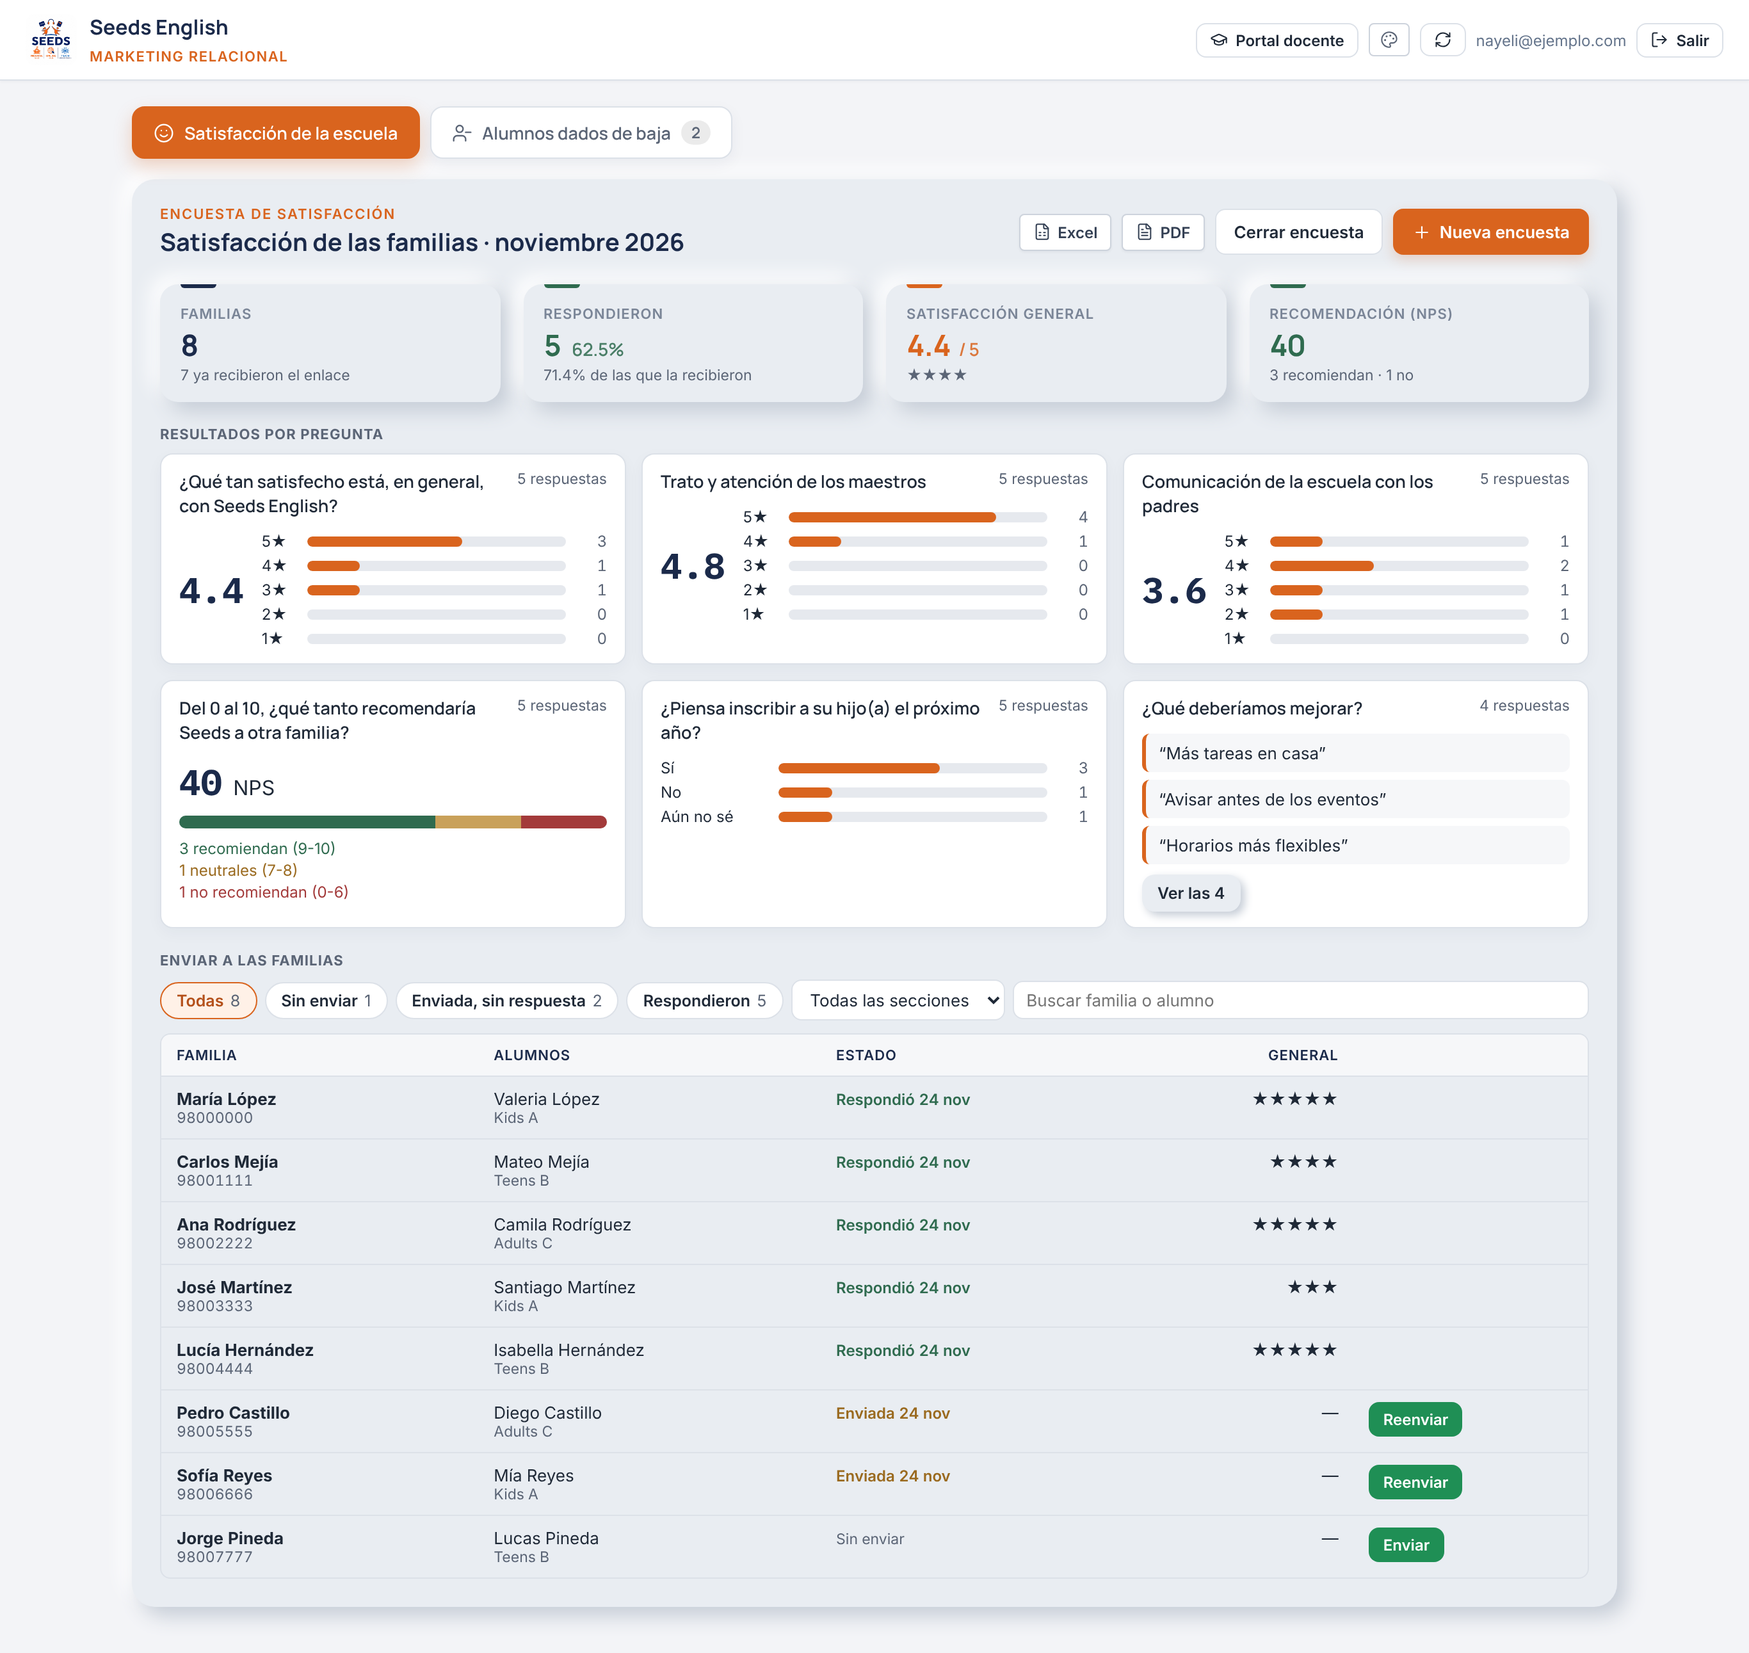
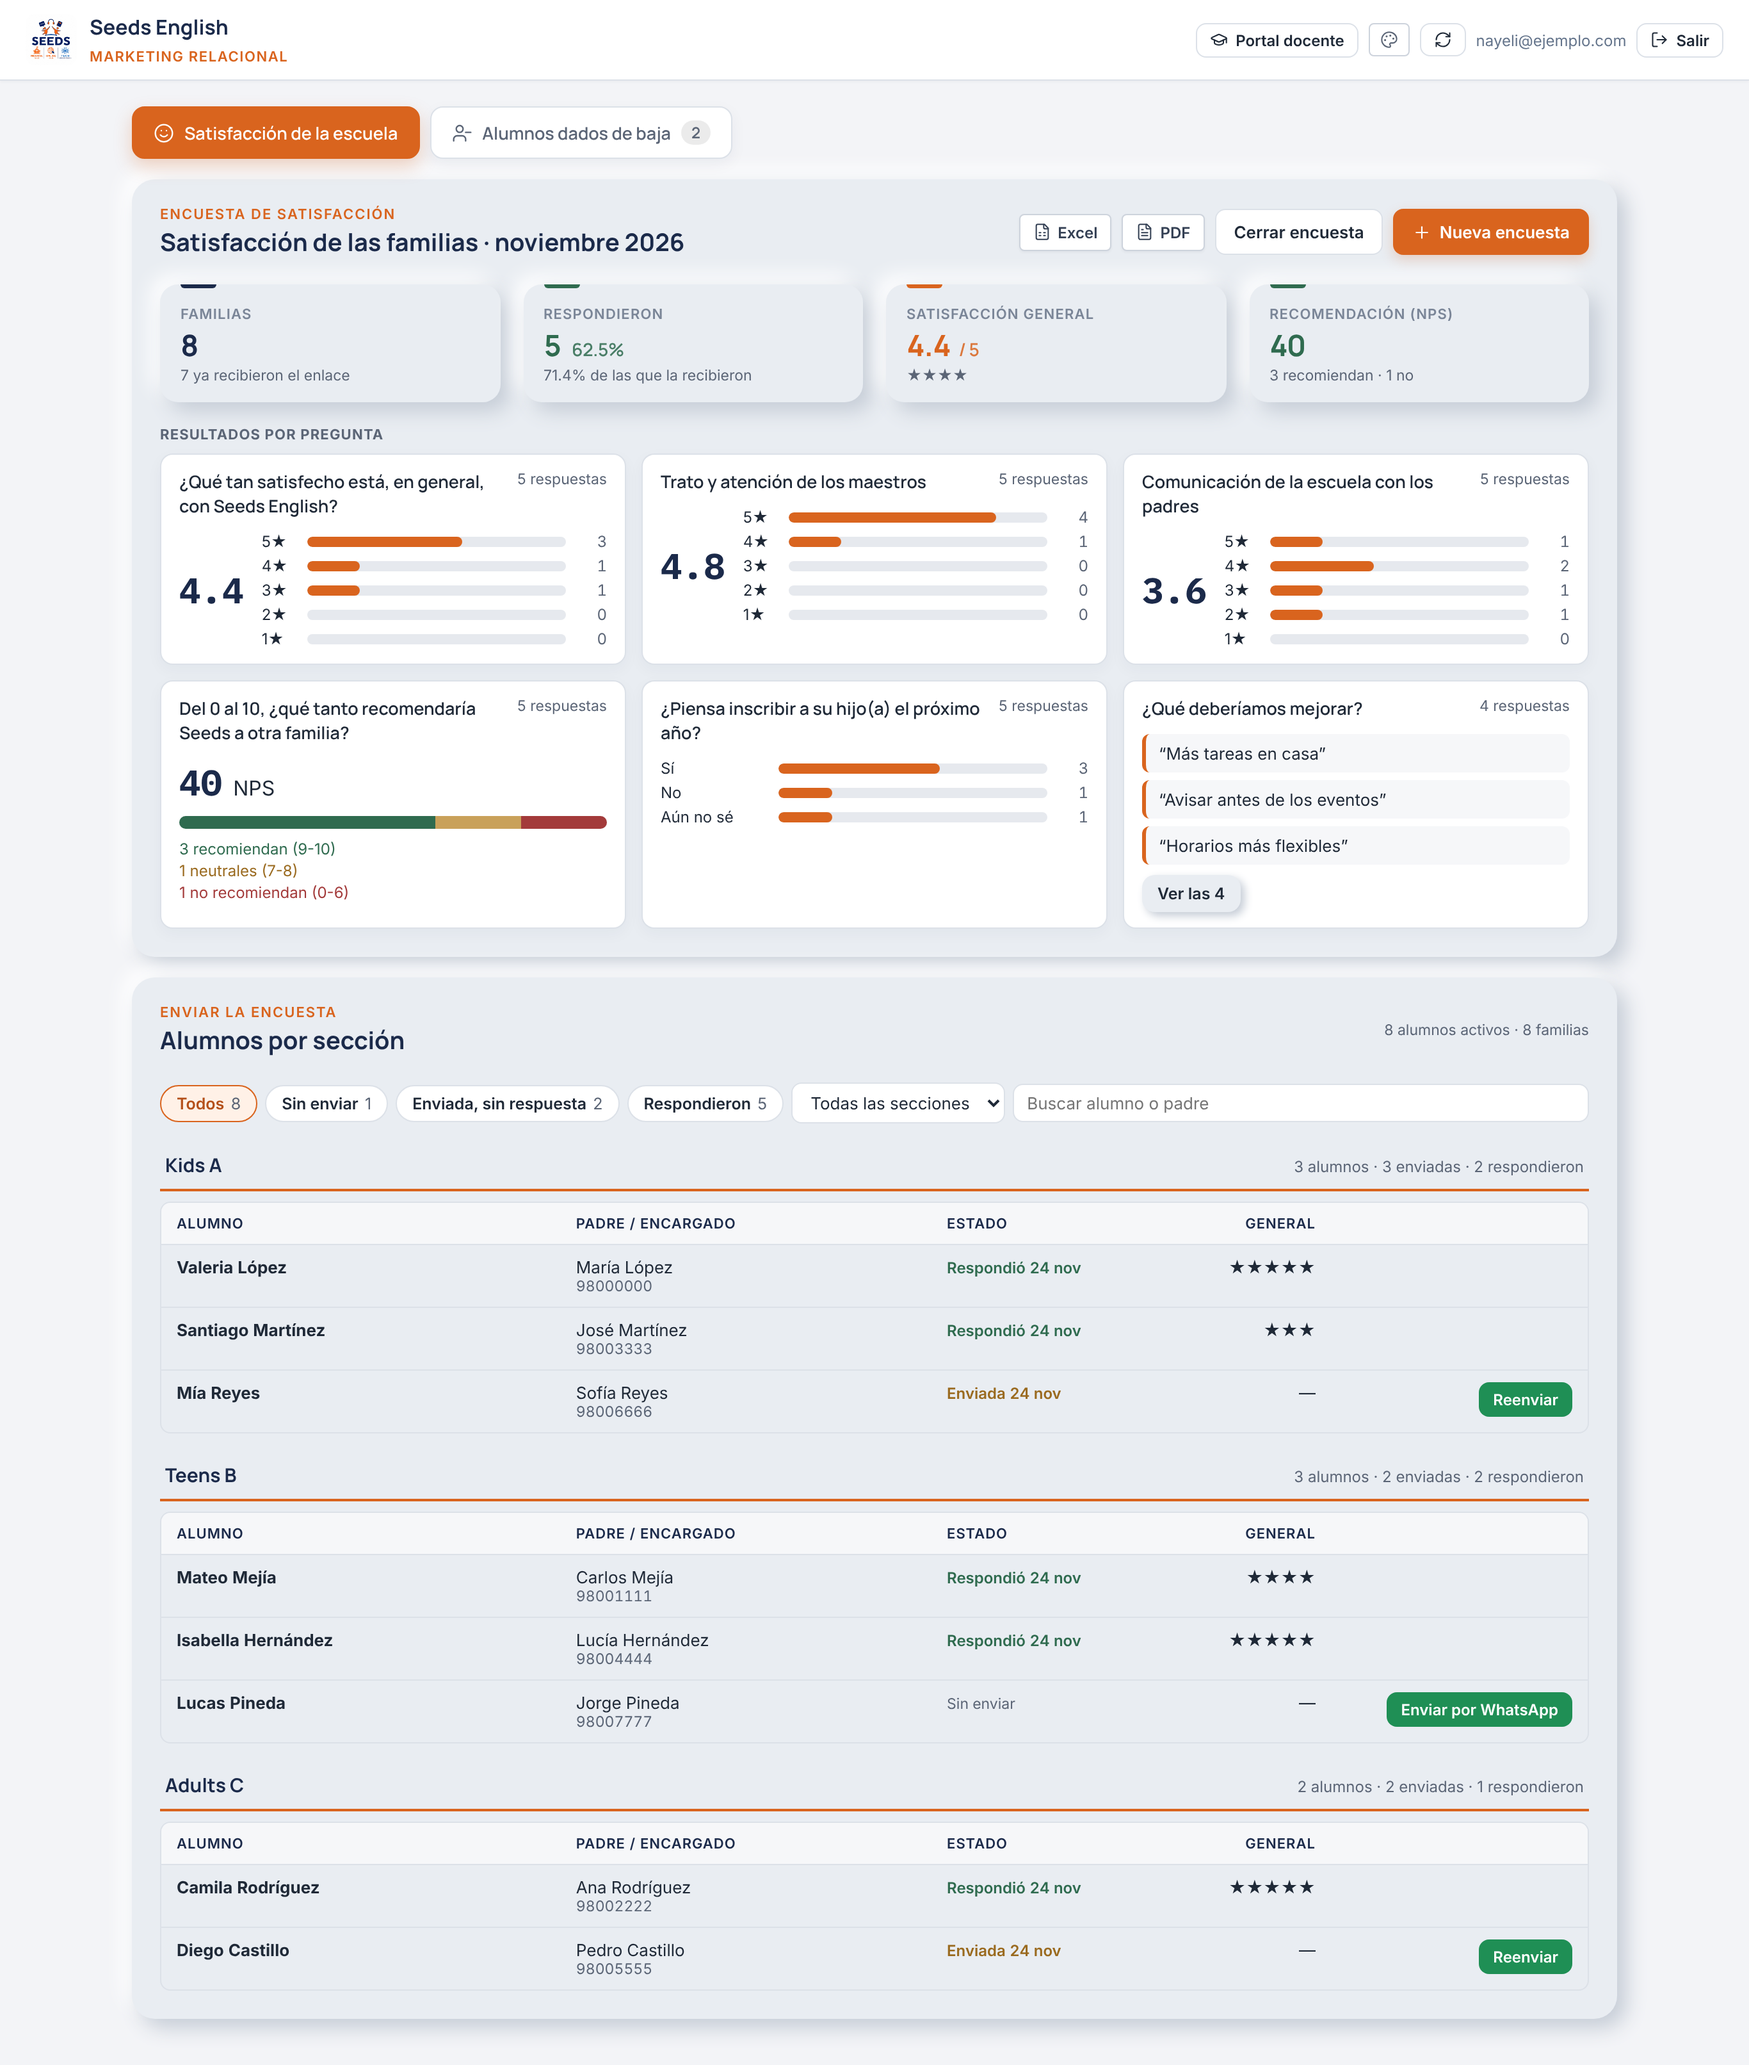
Marketing relacional: lista de alumnos por sección para enviar la encuesta, como en facturas
Claude-Session: https://claude.ai/code/session_01AxHPX21L8H8cCp28DDg5nG

diff --git a/src/marketing.jsx b/src/marketing.jsx
@@ -116,12 +116,8 @@ export function MarketingPanel({ data, showToast }) {
 function Satisfaccion({ data, showToast }) {
   const s = useSatisfaccion();
   const [nueva, setNueva] = useState(false);
-  const [filtro, setFiltro] = useState("todas");
-  const [sec, setSec] = useState("");
-  const [buscar, setBuscar] = useState("");
   const [abrirTextos, setAbrirTextos] = useState({});
   const camp = (s.campanas || []).find((c) => c.id === s.sel);
-  const padre = (id) => data.padres.find((p) => p.id === id);
 
   if (s.campanas === null) return <p className="dm-nota">Cargando…</p>;
   if (s.campanas === false) return <div className="rm dm"><div className="rm-cuerpo"><div className="rm-frase ambar">Falta activar las encuestas de satisfacción en la base de datos (archivo supabase/marketing_relacional.sql).</div></div></div>;
@@ -133,20 +129,6 @@ function Satisfaccion({ data, showToast }) {
   const recom = pregs.find((p) => p.tipo === "nps");
   const rG = general && resumenPregunta(general, resp);
   const rN = recom && resumenPregunta(recom, resp);
-  const visibles = s.filas.filter((f) => {
-    if (filtro === "sin" && (f.enviada_en || f.respondida_en)) return false;
-    if (filtro === "enviada" && (!f.enviada_en || f.respondida_en)) return false;
-    if (filtro === "resp" && !f.respondida_en) return false;
-    if (sec && !(f.secciones || "").split(", ").includes(sec)) return false;
-    if (buscar) { const q = buscar.toLowerCase(); if (!((padre(f.padre_id)?.nombre || "") + " " + (f.alumnos || "")).toLowerCase().includes(q)) return false; }
-    return true;
-  });
-  const seccionesNombres = [...new Set(s.filas.flatMap((f) => (f.secciones || "").split(", ").filter(Boolean)))].sort();
-
-  const enviar = async (f) => {
-    await supabase.from("satisfaccion_respuestas").update({ enviada_en: new Date().toISOString() }).eq("id", f.id);
-    s.cargarFilas();
-  };
   const cerrar = async () => {
     if (!confirm(camp.cerrada ? "¿Volver a abrir esta encuesta? Las familias podrán responder de nuevo." : "¿Cerrar esta encuesta? Las familias que no han respondido ya no podrán hacerlo.")) return;
     const { error } = await supabase.from("satisfaccion_campanas").update({ cerrada: !camp.cerrada }).eq("id", camp.id);
@@ -172,7 +154,7 @@ function Satisfaccion({ data, showToast }) {
           </div>
         </div>
         {!camp ? (
-          <div className="rm-cuerpo"><p className="dm-nota" style={{ marginTop: 0 }}>Cree la primera encuesta con <b>Nueva encuesta</b>. Se hará un enlace para cada familia con alumnos activos y lo podrá mandar por WhatsApp.</p></div>
+          <div className="rm-cuerpo"><p className="dm-nota" style={{ marginTop: 0 }}>Cree la primera encuesta con <b>Nueva encuesta</b>. Después la manda a cada familia desde la lista de alumnos de abajo, igual que las facturas.</p></div>
         ) : (
           <div className="rm-cuerpo">
             <div className="rm-fila mk-fila4">
@@ -200,39 +182,103 @@ function Satisfaccion({ data, showToast }) {
               </div>
             </>}
 
-            <div className="rm-grupo" style={{ marginTop: 18 }}>Enviar a las familias</div>
-            <div className="mk-filtros">
-              {[["todas", "Todas", s.filas.length], ["sin", "Sin enviar", s.filas.filter((f) => !f.enviada_en && !f.respondida_en).length], ["enviada", "Enviada, sin respuesta", s.filas.filter((f) => f.enviada_en && !f.respondida_en).length], ["resp", "Respondieron", resp.length]].map(([v, t, n]) => (
-                <button key={v} className={filtro === v ? "on" : ""} onClick={() => setFiltro(v)}>{t} <span>{n}</span></button>
-              ))}
-              <select value={sec} onChange={(e) => setSec(e.target.value)} aria-label="Sección"><option value="">Todas las secciones</option>{seccionesNombres.map((n) => <option key={n}>{n}</option>)}</select>
-              <input value={buscar} onChange={(e) => setBuscar(e.target.value)} placeholder="Buscar familia o alumno" />
-            </div>
-            <div className="dm-tabla-env">
-              <table className="dm-tabla">
-                <thead><tr><th>Familia</th><th>Alumnos</th><th>Estado</th><th className="n">General</th><th></th></tr></thead>
-                <tbody>
-                  {visibles.map((f) => { const p = padre(f.padre_id); const g = general && f.respuestas?.[general.id]; return (
-                    <tr key={f.id}>
-                      <td><b>{p?.nombre || "—"}</b>{p?.telefono && <div className="dm-sub">{p.telefono}</div>}</td>
-                      <td>{f.alumnos}<div className="dm-sub">{f.secciones}</div></td>
-                      <td>{f.respondida_en ? <span className="mk-ok">Respondió {fechaC(f.respondida_en)}</span> : f.enviada_en ? <span className="dm-pend">Enviada {fechaC(f.enviada_en)}</span> : <span className="dm-sub">Sin enviar</span>}</td>
-                      <td className="n">{camp.anonima ? (f.respondida_en ? "✓" : "—") : g ? "★".repeat(g) : "—"}</td>
-                      <td>{!f.respondida_en && !camp.cerrada && (p?.telefono
-                        ? <a className="dm-btn wa chico" href={linkWhatsApp(p.telefono, mensajeSatisfaccion(p.nombre, f.token))} target="_blank" rel="noreferrer" onClick={() => enviar(f)}>{f.enviada_en ? "Reenviar" : "Enviar"}</a>
-                        : <button className="dm-btn sec chico" onClick={async () => { try { await navigator.clipboard.writeText(mensajeSatisfaccion(p?.nombre, f.token)); await enviar(f); showToast("✓ Mensaje copiado (la familia no tiene teléfono guardado)"); } catch { /* sin portapapeles */ } }}>Copiar enlace</button>)}</td>
-                    </tr>
-                  ); })}
-                  {visibles.length === 0 && <tr><td colSpan={5} className="dm-sub">No hay familias con ese filtro.</td></tr>}
-                </tbody>
-              </table>
-            </div>
             {camp.anonima && <p className="dm-nota">Encuesta anónima: se ve quién respondió, pero no qué respondió cada familia.</p>}
           </div>
         )}
       </div>
+      <ListaEnvio data={data} camp={camp} filas={s.filas} recargar={s.cargarFilas} general={general} showToast={showToast} onNueva={() => setNueva(true)} />
       {nueva && <NuevaEncuesta onCerrar={() => setNueva(false)} showToast={showToast} onCreada={(id) => { setNueva(false); s.cargar(id); }} />}
     </>
+  );
+}
+
+// ── Lista de alumnos por sección para mandar la encuesta (como Facturas) ──
+// El enlace es por familia: si dos hermanos están en la lista, comparten el
+// mismo enlace y el mismo estado.
+function ListaEnvio({ data, camp, filas, recargar, general, showToast, onNueva }) {
+  const [filtro, setFiltro] = useState("todas");
+  const [sec, setSec] = useState("");
+  const [buscar, setBuscar] = useState("");
+  const activos = useMemo(() => data.alumnos.filter((a) => a.estado === "activo"), [data.alumnos]);
+  const filaDe = (a) => filas.find((f) => f.padre_id === a.padre_id);
+  const padre = (id) => data.padres.find((p) => p.id === id);
+
+  // Familias que se matricularon después de crear la encuesta: se les prepara su enlace
+  useEffect(() => {
+    if (!camp || camp.cerrada || !filas.length) return;
+    const tienen = new Set(filas.map((f) => f.padre_id));
+    const faltan = [...new Set(activos.filter((a) => a.padre_id && !tienen.has(a.padre_id)).map((a) => a.padre_id))];
+    if (!faltan.length) return;
+    const nombreSec = (id) => (data.secciones.find((x) => x.id === id)?.nombre || "").trim();
+    const nuevas = faltan.map((pid) => { const hs = activos.filter((a) => a.padre_id === pid); return { campana_id: camp.id, padre_id: pid, alumnos: hs.map((a) => a.nombre).join(", "), secciones: [...new Set(hs.map((a) => nombreSec(a.seccion_id)).filter(Boolean))].join(", ") }; });
+    supabase.from("satisfaccion_respuestas").upsert(nuevas, { onConflict: "campana_id,padre_id", ignoreDuplicates: true }).then(({ error }) => { if (!error) recargar(); });
+  }, [camp, filas, activos, data.secciones, recargar]);
+
+  const estado = (f) => (!f ? "sin" : f.respondida_en ? "resp" : f.enviada_en ? "enviada" : "sin");
+  const pasa = (a) => {
+    if (sec && (a.seccion_id || "_") !== sec) return false;
+    if (filtro !== "todas" && estado(filaDe(a)) !== filtro) return false;
+    if (buscar) { const q = buscar.toLowerCase(); if (!(a.nombre + " " + (padre(a.padre_id)?.nombre || "")).toLowerCase().includes(q)) return false; }
+    return true;
+  };
+  const grupos = [...data.secciones.map((x) => ({ id: x.id, nombre: x.nombre.trim() })), { id: "_", nombre: "Sin sección" }]
+    .map((g) => ({ ...g, todos: activos.filter((a) => (a.seccion_id || "_") === g.id) }))
+    .filter((g) => g.todos.length);
+  const cuenta = (v) => activos.filter((a) => v === "todas" || estado(filaDe(a)) === v).length;
+
+  const marcar = async (f) => {
+    await supabase.from("satisfaccion_respuestas").update({ enviada_en: new Date().toISOString() }).eq("id", f.id);
+    recargar();
+  };
+
+  return (
+    <div className="rm dm">
+      <div className="rm-cab">
+        <div><div className="rm-eti">Enviar la encuesta</div><div className="rm-tit">Alumnos por sección</div></div>
+        <div className="dm-cab-der"><span className="dm-sub">{activos.length} alumnos activos · {new Set(activos.map((a) => a.padre_id)).size} familias</span></div>
+      </div>
+      <div className="rm-cuerpo">
+        {!camp && <div className="rm-frase ambar" style={{ marginBottom: 14 }}><span>Para poder enviar, primero cree la encuesta.</span> <button className="dm-btn nar chico" onClick={onNueva}><Plus size={13} />Nueva encuesta</button></div>}
+        {camp?.cerrada && <div className="rm-frase ambar" style={{ marginBottom: 14 }}>Esta encuesta está cerrada: ya no se puede enviar.</div>}
+        <div className="mk-filtros">
+          {(camp ? [["todas", "Todos"], ["sin", "Sin enviar"], ["enviada", "Enviada, sin respuesta"], ["resp", "Respondieron"]] : [["todas", "Todos"]]).map(([v, t]) => (
+            <button key={v} className={filtro === v ? "on" : ""} onClick={() => setFiltro(v)}>{t} <span>{cuenta(v)}</span></button>
+          ))}
+          <select value={sec} onChange={(e) => setSec(e.target.value)} aria-label="Sección"><option value="">Todas las secciones</option>{grupos.map((g) => <option key={g.id} value={g.id}>{g.nombre}</option>)}</select>
+          <input value={buscar} onChange={(e) => setBuscar(e.target.value)} placeholder="Buscar alumno o padre" />
+        </div>
+        {grupos.map((g) => {
+          const vis = g.todos.filter(pasa);
+          if (!vis.length) return null;
+          const env = g.todos.filter((a) => estado(filaDe(a)) !== "sin").length;
+          const res = g.todos.filter((a) => estado(filaDe(a)) === "resp").length;
+          return (
+            <div key={g.id} className="mk-seccion">
+              <div className="mk-sec-cab"><b>{g.nombre}</b><span>{g.todos.length} alumnos{camp ? ` · ${env} enviadas · ${res} respondieron` : ""}</span></div>
+              <div className="dm-tabla-env">
+                <table className="dm-tabla mk-tabla">
+                  <thead><tr><th>Alumno</th><th>Padre / encargado</th><th>Estado</th>{camp && <th className="n">General</th>}<th></th></tr></thead>
+                  <tbody>
+                    {vis.map((a) => { const p = padre(a.padre_id); const f = filaDe(a); const g1 = general && f?.respuestas?.[general.id]; return (
+                      <tr key={a.id}>
+                        <td><b>{a.nombre}</b></td>
+                        <td>{p?.nombre || "—"}{p?.telefono && <div className="dm-sub">{p.telefono}</div>}</td>
+                        <td>{!camp ? <span className="dm-sub">—</span> : !f ? <span className="dm-sub">Preparando enlace…</span> : f.respondida_en ? <span className="mk-ok">Respondió {fechaC(f.respondida_en)}</span> : f.enviada_en ? <span className="dm-pend">Enviada {fechaC(f.enviada_en)}</span> : <span className="dm-sub">Sin enviar</span>}</td>
+                        {camp && <td className="n">{camp.anonima ? (f?.respondida_en ? "✓" : "—") : g1 ? "★".repeat(g1) : "—"}</td>}
+                        <td className="mk-acc">{camp && f && !f.respondida_en && !camp.cerrada && (p?.telefono
+                          ? <a className="dm-btn wa chico" href={linkWhatsApp(p.telefono, mensajeSatisfaccion(p.nombre, f.token))} target="_blank" rel="noreferrer" onClick={() => marcar(f)}>{f.enviada_en ? "Reenviar" : "Enviar por WhatsApp"}</a>
+                          : <button className="dm-btn sec chico" onClick={async () => { try { await navigator.clipboard.writeText(mensajeSatisfaccion(p?.nombre, f.token)); await marcar(f); showToast("✓ Mensaje copiado (el padre no tiene teléfono guardado)"); } catch { /* sin portapapeles */ } }}>Copiar enlace</button>)}</td>
+                      </tr>
+                    ); })}
+                  </tbody>
+                </table>
+              </div>
+            </div>
+          );
+        })}
+        {!grupos.some((g) => g.todos.some(pasa)) && <p className="dm-nota">No hay alumnos con ese filtro.</p>}
+      </div>
+    </div>
   );
 }
 

diff --git a/src/marketing.css b/src/marketing.css
@@ -81,3 +81,11 @@ html[data-fondo="oscuro"] .mk-marca b { color: #E9EDEF; }
 .mk-toast.error { background: #A33A3A; }
 .mk-toast button { background: none; border: none; color: inherit; cursor: pointer; display: flex; }
 .mk-dist.op > div { grid-template-columns: 84px 1fr 24px; }
+.mk-seccion { margin-top: 14px; }
+.mk-sec-cab { display: flex; justify-content: space-between; align-items: baseline; gap: 10px; flex-wrap: wrap; padding: 8px 4px; border-bottom: 2px solid #D9641E; margin-bottom: 8px; }
+.mk-sec-cab b { font: 700 15px Manrope, Inter, sans-serif; color: var(--rm-azul); }
+.mk-sec-cab span { font-size: 12px; color: var(--rm-suave); }
+.mk-acc { text-align: right; white-space: nowrap; }
+.rm-frase .dm-btn { margin-left: auto; }
+.mk-tabla { table-layout: fixed; }
+.mk-tabla th:nth-child(1) { width: 28%; } .mk-tabla th:nth-child(2) { width: 26%; } .mk-tabla th:nth-child(3) { width: 18%; } .mk-tabla th:nth-child(4) { width: 10%; }
